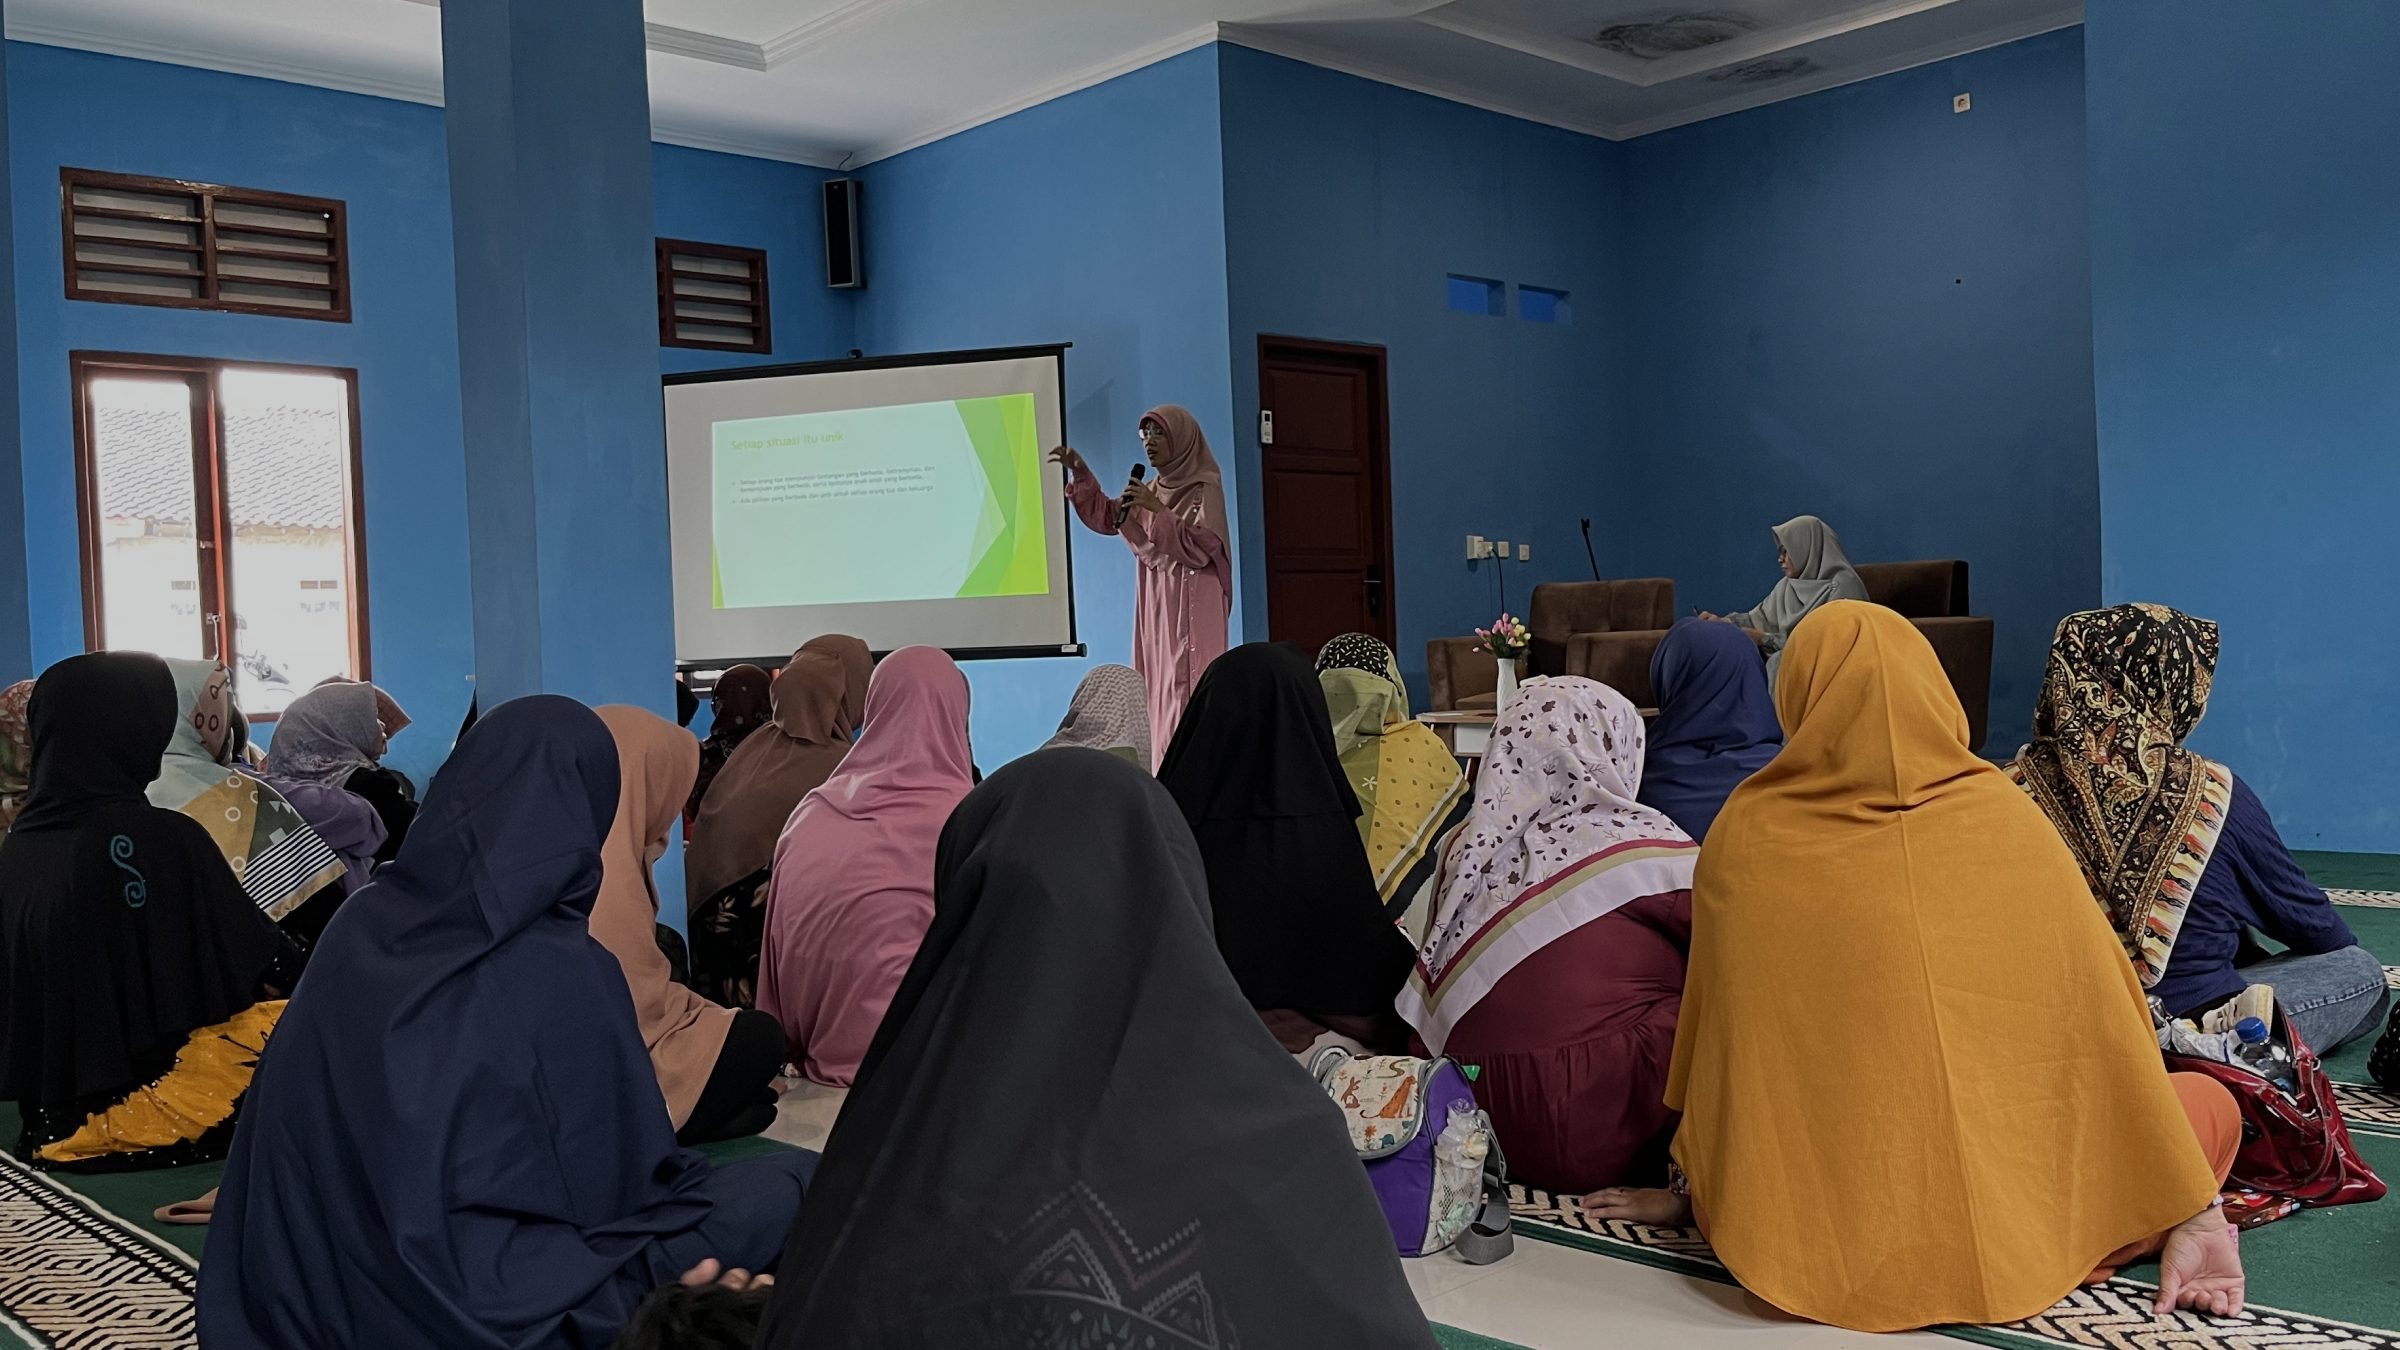
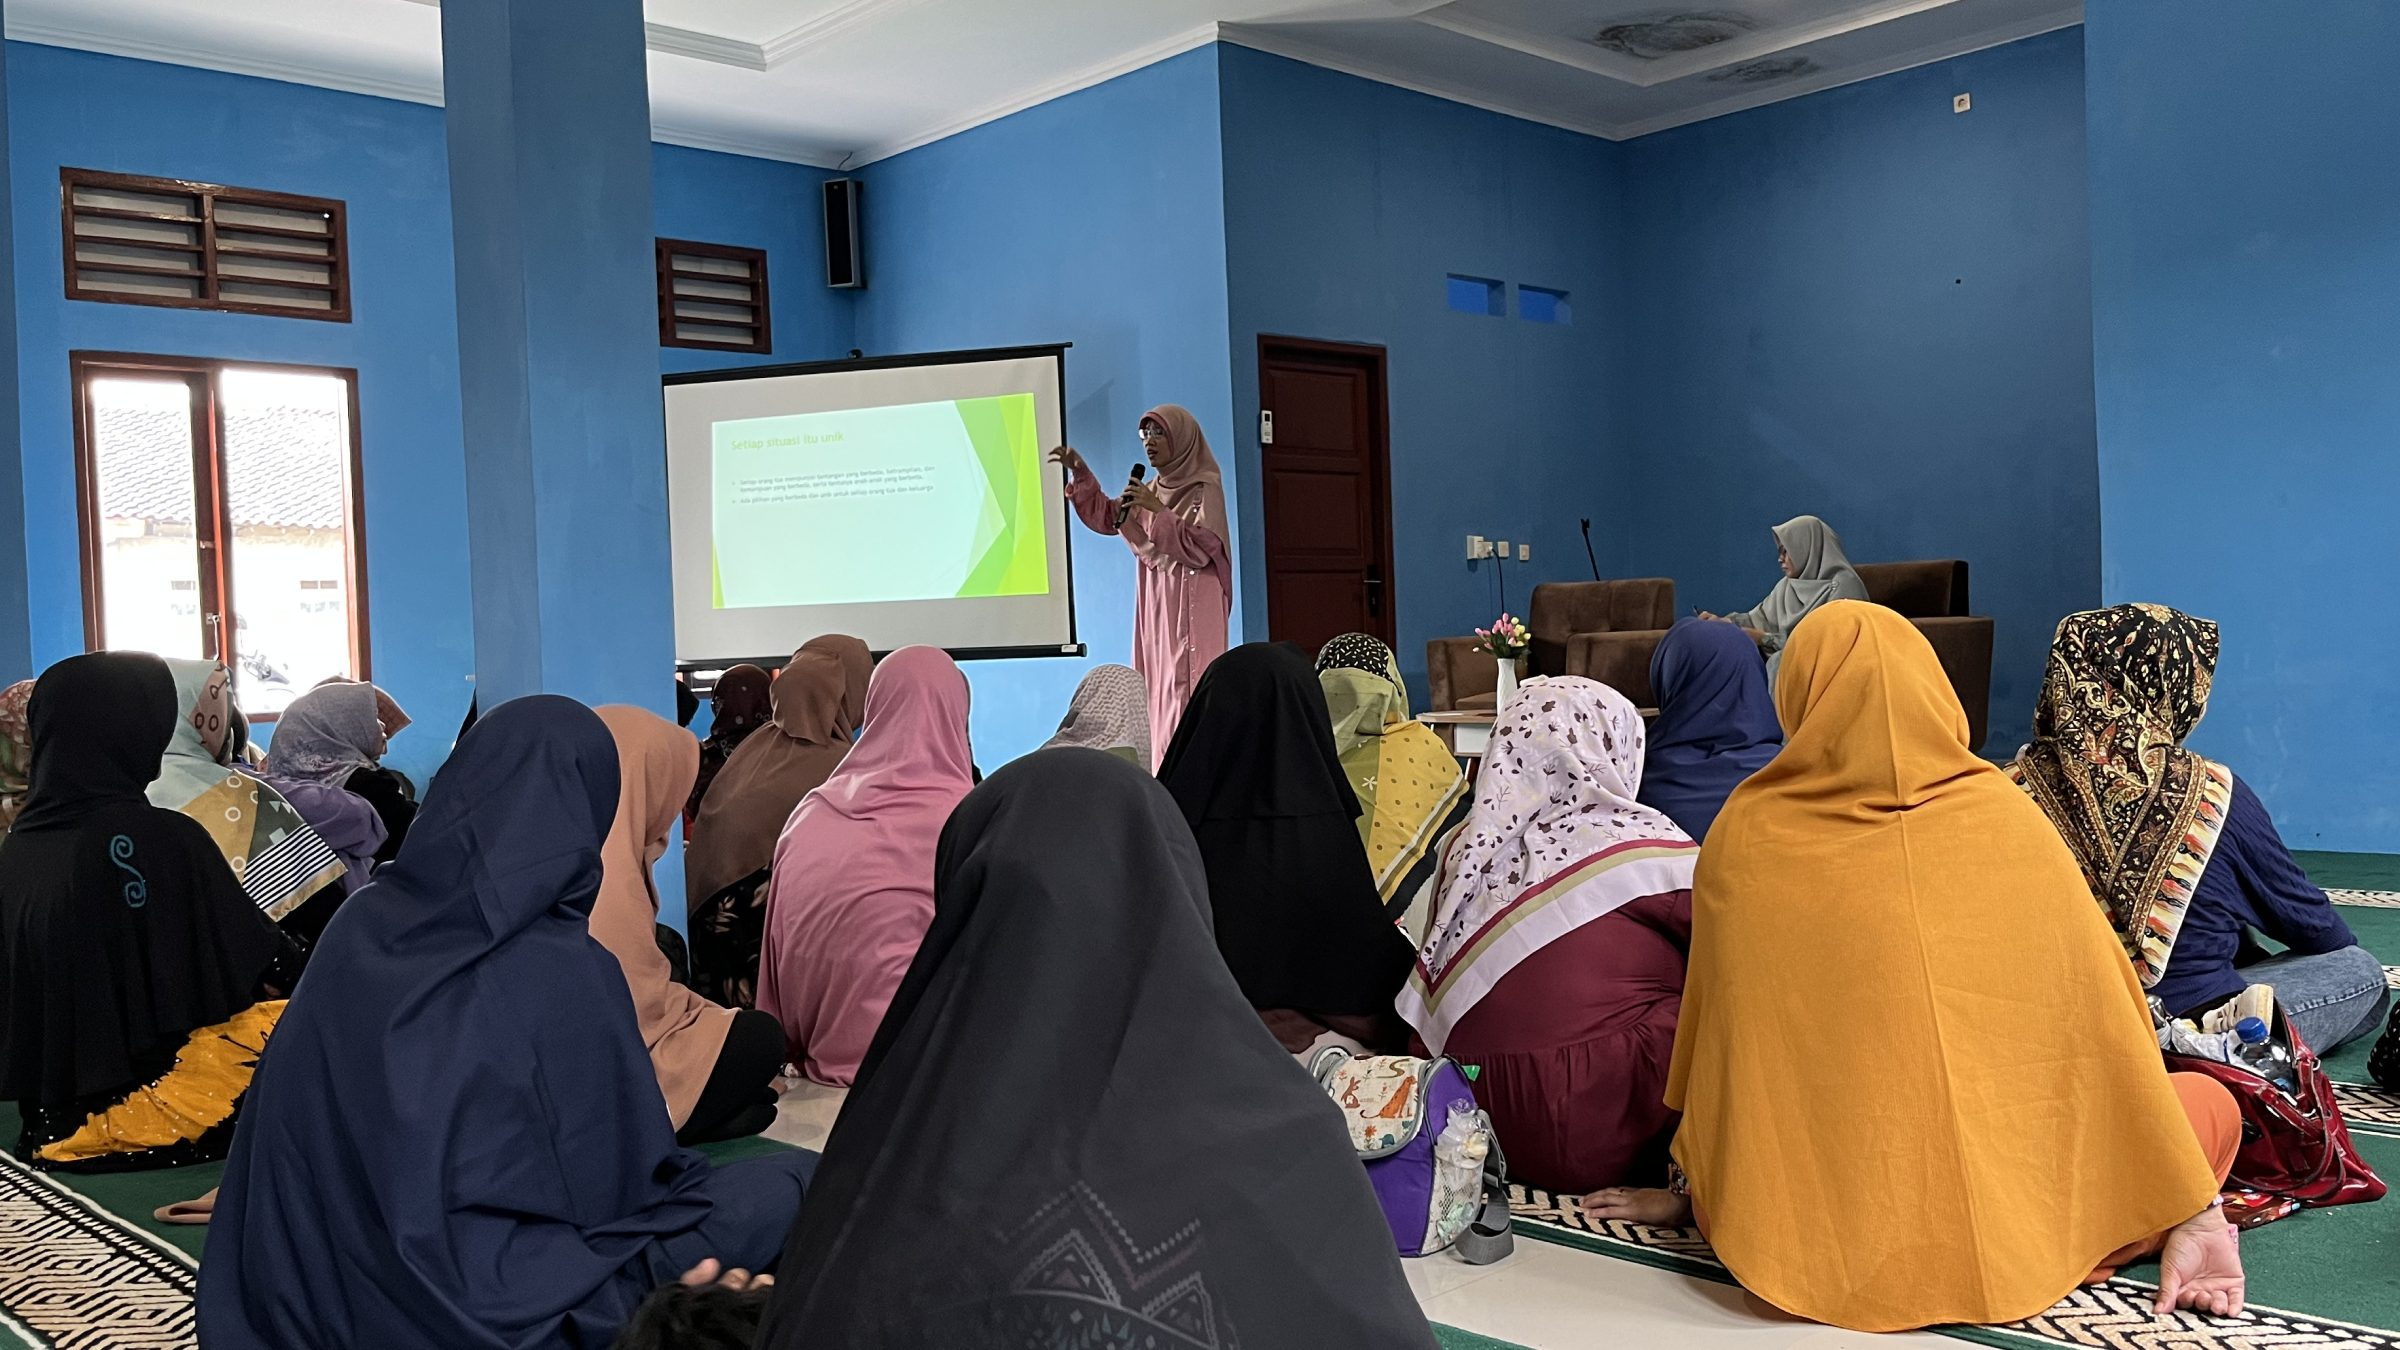
Redesign hero section with scattered photo/emoji collage and entrance animation
Replaces the flat static hero with a fuller layout: real activity photos
and decorative emoji scattered around the headline with a staggered
scale-in animation, a rotating-hue glow background, a scroll-down CTA
into the card carousel, and a JS-based collision check that hides any
decorative element overlapping the headline text. Photos are hidden
entirely on mobile, leaving only the emoji.

diff --git a/css/style.css b/css/style.css
@@ -73,6 +73,9 @@ img {
 .hero {
   position: relative;
   overflow: hidden;
+  min-height: 92vh;
+  display: flex;
+  align-items: center;
   background: linear-gradient(180deg, #eef3ff 0%, var(--background) 55%, var(--background) 100%);
 }
 .hero-glow {
@@ -82,9 +85,10 @@ img {
   width: 640px;
   height: 640px;
   border-radius: 50%;
-  background: radial-gradient(circle, rgba(217,164,65,0.28) 0%, rgba(217,164,65,0) 70%);
+  background: radial-gradient(circle, rgba(20,184,166,0.28) 0%, rgba(20,184,166,0) 70%);
   pointer-events: none;
   z-index: 0;
+  animation: heroGlowShift 14s linear infinite;
 }
 .hero-glow.two {
   top: -120px;
@@ -93,48 +97,110 @@ img {
   width: 560px;
   height: 560px;
   background: radial-gradient(circle, rgba(13,110,253,0.18) 0%, rgba(13,110,253,0) 70%);
+  animation: heroGlowShift 18s linear infinite reverse;
+}
+@keyframes heroGlowShift {
+  0% { filter: hue-rotate(0deg); }
+  100% { filter: hue-rotate(360deg); }
+}
+.hero-photo-field {
+  position: absolute;
+  inset: 0;
+  z-index: 1;
+  pointer-events: none;
+}
+.hero-photo {
+  position: absolute;
+  border-radius: 20px;
+  overflow: hidden;
+  box-shadow: 0 20px 48px rgba(10,23,48,0.22);
+  border: 4px solid var(--background);
+  --rot: 0deg;
+  animation: heroPhotoIn 0.9s cubic-bezier(0.16, 1, 0.3, 1) both;
+  transition: opacity 0.3s ease;
+}
+.hero-photo img {
+  width: 100%;
+  height: 100%;
+  object-fit: cover;
+  display: block;
+}
+.hero-photo-natural img {
+  height: auto;
+  object-fit: initial;
+}
+.hero-photo.is-blur {
+  filter: blur(2px);
+  animation-name: heroPhotoInBlur;
+}
+@keyframes heroPhotoIn {
+  from { opacity: 0; transform: scale(0.5) rotate(var(--rot)) translateY(50px); }
+  to { opacity: 1; transform: scale(1) rotate(var(--rot)) translateY(0); }
+}
+@keyframes heroPhotoInBlur {
+  from { opacity: 0; transform: scale(0.5) rotate(var(--rot)) translateY(50px); }
+  to { opacity: 0.6; transform: scale(1) rotate(var(--rot)) translateY(0); }
+}
+.hero-emoji-field {
+  position: absolute;
+  inset: 0;
+  z-index: 1;
+  overflow: hidden;
+  pointer-events: none;
+}
+.hero-emoji {
+  position: absolute;
+  line-height: 1;
+  user-select: none;
+  animation: heroEmojiIn 0.8s cubic-bezier(0.16, 1, 0.3, 1) both;
+  transition: opacity 0.3s ease;
+}
+.hero-emoji.is-blur {
+  filter: blur(3px);
+  animation-name: heroEmojiInBlur;
+}
+@keyframes heroEmojiIn {
+  from { opacity: 0; transform: scale(0.3) translateY(36px); }
+  to { opacity: 0.9; transform: scale(1) translateY(0); }
+}
+@keyframes heroEmojiInBlur {
+  from { opacity: 0; transform: scale(0.3) translateY(36px); }
+  to { opacity: 0.55; transform: scale(1) translateY(0); }
 }
 .hero-inner {
   position: relative;
   z-index: 2;
   max-width: var(--container-max, 1152px);
   margin: 0 auto;
-  padding: 128px 24px 0;
+  padding: 48px 24px;
+  width: 100%;
 }
 .hero-main {
   max-width: 820px;
   margin: 0 auto;
-  padding-bottom: 96px;
   text-align: center;
 }
 .hero-eyebrow {
-  display: inline-flex;
-  align-items: center;
-  gap: 8px;
+  display: inline-block;
   font-size: 13px;
   font-weight: 600;
-  letter-spacing: 0.02em;
+  letter-spacing: 0.04em;
+  text-transform: uppercase;
   color: var(--primary-dark);
-  background: var(--muted-bg);
-  border: 1px solid var(--card-border);
-  padding: 7px 14px 7px 10px;
-  border-radius: var(--radius-pill);
-  margin: 0 0 28px;
-}
-.hero-eyebrow .dot {
-  width: 7px;
-  height: 7px;
-  border-radius: 50%;
-  background: var(--accent);
+  margin: 0 0 20px;
 }
 .hero-main-text {
-  font-weight: 700;
+  font-weight: 500;
   font-size: clamp(32px, 5vw, 56px);
   line-height: 1.16;
   letter-spacing: -0.015em;
   color: var(--foreground);
-  margin: 0 0 36px;
+  margin: 0 0 32px;
   text-wrap: balance;
+}
+.hero-highlight {
+  background: linear-gradient(180deg, transparent 62%, rgba(20,184,166,0.35) 62%);
+  color: var(--primary-dark);
 }
 .btn-hero-primary {
   display: inline-flex;
@@ -155,6 +221,22 @@ img {
   box-shadow: 0 10px 24px rgba(13,110,253,0.3);
 }
 .btn-hero-primary svg { width: 15px; height: 15px; }
+.hero-main-scroll {
+  position: absolute;
+  bottom: 28px;
+  left: 50%;
+  transform: translateX(-50%);
+  z-index: 3;
+  color: var(--primary-dark);
+  opacity: 0.6;
+  animation: hero-bob 1.8s ease-in-out infinite;
+  pointer-events: none;
+}
+.hero-main-scroll svg { width: 20px; height: 20px; }
+@media (max-width: 700px) {
+  .hero-main-scroll { display: none; }
+  .hero-photo-field { display: none; }
+}
 
 /* -------------------- HERO CARD SEQUENCE -------------------- */
 /* Driven by native page scroll: .hero-pin is tall, its inner box is
@@ -239,9 +321,10 @@ img {
   left: 50%;
   transform: translateX(-50%);
   font-size: 13px;
-  font-weight: 700;
-  letter-spacing: 0.08em;
+  font-weight: 600;
+  letter-spacing: 0.04em;
   color: rgba(255,255,255,0.8);
+  text-shadow: 0 1px 6px rgba(0,0,0,0.3);
   z-index: 1;
   opacity: 0;
   transition: opacity 0.5s ease;
@@ -268,7 +351,7 @@ img {
   transition-delay: 0.35s;
 }
 .hero-card p {
-  font-weight: 700;
+  font-weight: 500;
   font-size: clamp(28px, 4vw, 46px);
   line-height: 1.2;
   margin: 0;
@@ -276,6 +359,7 @@ img {
   text-wrap: balance;
   color: #fff;
   letter-spacing: -0.01em;
+  text-shadow: 0 2px 10px rgba(0,0,0,0.3);
 }
 .hero-cta {
   display: inline-flex;
@@ -340,10 +424,16 @@ img {
   50% { transform: translate(-50%, 6px); opacity: 1; }
 }
 @media (prefers-reduced-motion: reduce) {
-  .hero-scroll-hint { animation: none; }
+  .hero-scroll-hint,
+  .hero-main-scroll,
+  .hero-glow { animation: none; }
   .hero-carousel-strip,
   .hero-frame,
   .hero-card-body { transition: none; }
+  .hero-photo,
+  .hero-emoji { animation: none; opacity: 1; }
+  .hero-photo.is-blur,
+  .hero-emoji.is-blur { opacity: 0.55; }
 }
 
 /* -------------------- STATS -------------------- */
@@ -514,8 +604,7 @@ img {
 }
 
 @media (max-width: 700px) {
-  .hero-inner { padding: 96px 24px 0; }
-  .hero-main { padding-bottom: 56px; }
+  .hero { min-height: 78vh; }
   .hero-card { padding: 30px; }
   .hero-card-body { gap: 22px; }
   .hero-card-num { top: 22px; }

diff --git a/index.html b/index.html
@@ -37,14 +37,51 @@
   <div class="hero-glow"></div>
   <div class="hero-glow two"></div>
 
+  <div class="hero-photo-field" aria-hidden="true">
+    <div class="hero-photo hero-photo-hide-mobile" style="top:-5%; left:-6%; width:540px; height:235px; --rot:-8deg; animation-delay:0.05s;">
+      <img src="img/hero-hasil.jpg" alt="">
+    </div>
+    <div class="hero-photo hero-photo-hide-mobile" style="top:6%; right:18%; width:170px; height:130px; --rot:13deg; animation-delay:0.15s;">
+      <img src="img/hero-foundation.jpg" alt="">
+    </div>
+    <div class="hero-photo" style="top:38%; left:3%; width:300px; height:212px; --rot:-3deg; animation-delay:0.25s;">
+      <img src="img/hero-bimbeltera.jpg" alt="">
+    </div>
+    <div class="hero-photo hero-photo-natural" style="bottom:16%; right:6%; width:300px; --rot:9deg; animation-delay:0.35s;">
+      <img src="img/hero-kelas.jpg" alt="">
+    </div>
+    <div class="hero-photo hero-photo-hide-mobile" style="top:-3%; right:-3%; width:260px; height:195px; --rot:10deg; animation-delay:0.45s;">
+      <img src="img/hero-siswa3.jpg" alt="">
+    </div>
+    <div class="hero-photo is-blur" style="top:22%; right:0%; width:210px; height:135px; --rot:-6deg; animation-delay:0.55s;">
+      <img src="img/hero-siswa1.jpg" alt="">
+    </div>
+    <div class="hero-photo is-blur" style="bottom:0%; left:16%; width:230px; height:144px; --rot:-5deg; animation-delay:0.65s;">
+      <img src="img/hero-siswa4.jpg" alt="">
+    </div>
+  </div>
+
+  <div class="hero-emoji-field" aria-hidden="true">
+    <span class="hero-emoji" style="top:2%; right:30%; font-size:16px; animation-delay:0.3s;">✨</span>
+    <span class="hero-emoji" style="top:7%; left:32%; font-size:48px; animation-delay:0.5s;">📚</span>
+    <span class="hero-emoji" style="bottom:28%; left:3%; font-size:38px; animation-delay:0.7s;">🎈</span>
+    <span class="hero-emoji is-blur" style="top:44%; left:22%; font-size:28px; animation-delay:0.4s;">⭐</span>
+    <span class="hero-emoji" style="bottom:14%; right:20%; font-size:30px; animation-delay:0.9s;">🚀</span>
+    <span class="hero-emoji is-blur" style="top:60%; right:4%; font-size:40px; animation-delay:0.9s;">🏆</span>
+  </div>
+
   <div class="hero-inner">
     <div class="hero-main">
-      <span class="hero-eyebrow"><span class="dot"></span>Misi Kami</span>
-      <p class="hero-main-text">Menciptakan tempat dimana setiap anak bebas bermimpi.</p>
-      <a href="#" class="btn-hero-primary">Tentang Tera
-        <svg viewBox="0 0 20 20" fill="none" stroke="currentColor" stroke-width="2"><path d="M4 10h12M11 5l5 5-5 5"/></svg>
+      <span class="hero-eyebrow">Misi Kami</span>
+      <p class="hero-main-text">Menciptakan tempat dimana setiap anak <span class="hero-highlight">bebas bermimpi</span>.</p>
+      <a href="#heroPin" class="btn-hero-primary">Lihat caranya
+        <svg viewBox="0 0 20 20" fill="none" stroke="currentColor" stroke-width="2"><path d="M10 4v12M5 11l5 5 5-5"/></svg>
       </a>
     </div>
+  </div>
+
+  <div class="hero-main-scroll" aria-hidden="true">
+    <svg viewBox="0 0 20 20" fill="none" stroke="currentColor" stroke-width="2"><path d="M5 8l5 5 5-5"/></svg>
   </div>
 </header>
 

diff --git a/js/script.js b/js/script.js
@@ -4,7 +4,43 @@
 document.addEventListener('DOMContentLoaded', () => {
   initHeroSequence();
   initCountUp();
+  initHeroDeconflict();
 });
+
+// Hides any decorative hero photo/emoji that overlaps the headline text —
+// on small screens the (fixed-px) decorative elements take up proportionally
+// more space and can start covering the words, so we just drop whichever
+// ones collide instead of trying to hand-tune breakpoints per element.
+function initHeroDeconflict() {
+  const heroMain = document.querySelector('.hero-main');
+  const targets = document.querySelectorAll('.hero-photo, .hero-emoji');
+  if (!heroMain || !targets.length) return;
+
+  function overlaps(a, b) {
+    return !(a.right < b.left || a.left > b.right || a.bottom < b.top || a.top > b.bottom);
+  }
+
+  function check() {
+    const textRect = heroMain.getBoundingClientRect();
+    targets.forEach((el) => {
+      // display:none (not opacity via class) because the entrance animation's
+      // fill-mode keeps holding the opacity/transform properties even after
+      // it finishes, so a plain CSS opacity override never wins against it.
+      const hide = overlaps(el.getBoundingClientRect(), textRect);
+      el.style.display = hide ? 'none' : '';
+    });
+  }
+
+  // wait for the entrance animations to settle so getBoundingClientRect
+  // reflects each element's resting position, not its mid-animation scale.
+  setTimeout(check, 1700);
+
+  let resizeTimer;
+  window.addEventListener('resize', () => {
+    clearTimeout(resizeTimer);
+    resizeTimer = setTimeout(check, 150);
+  });
+}
 
 // Pinned hero card sequence: paints a gradient placeholder behind each
 // video (fallback while the video loads / if it's blocked), then maps